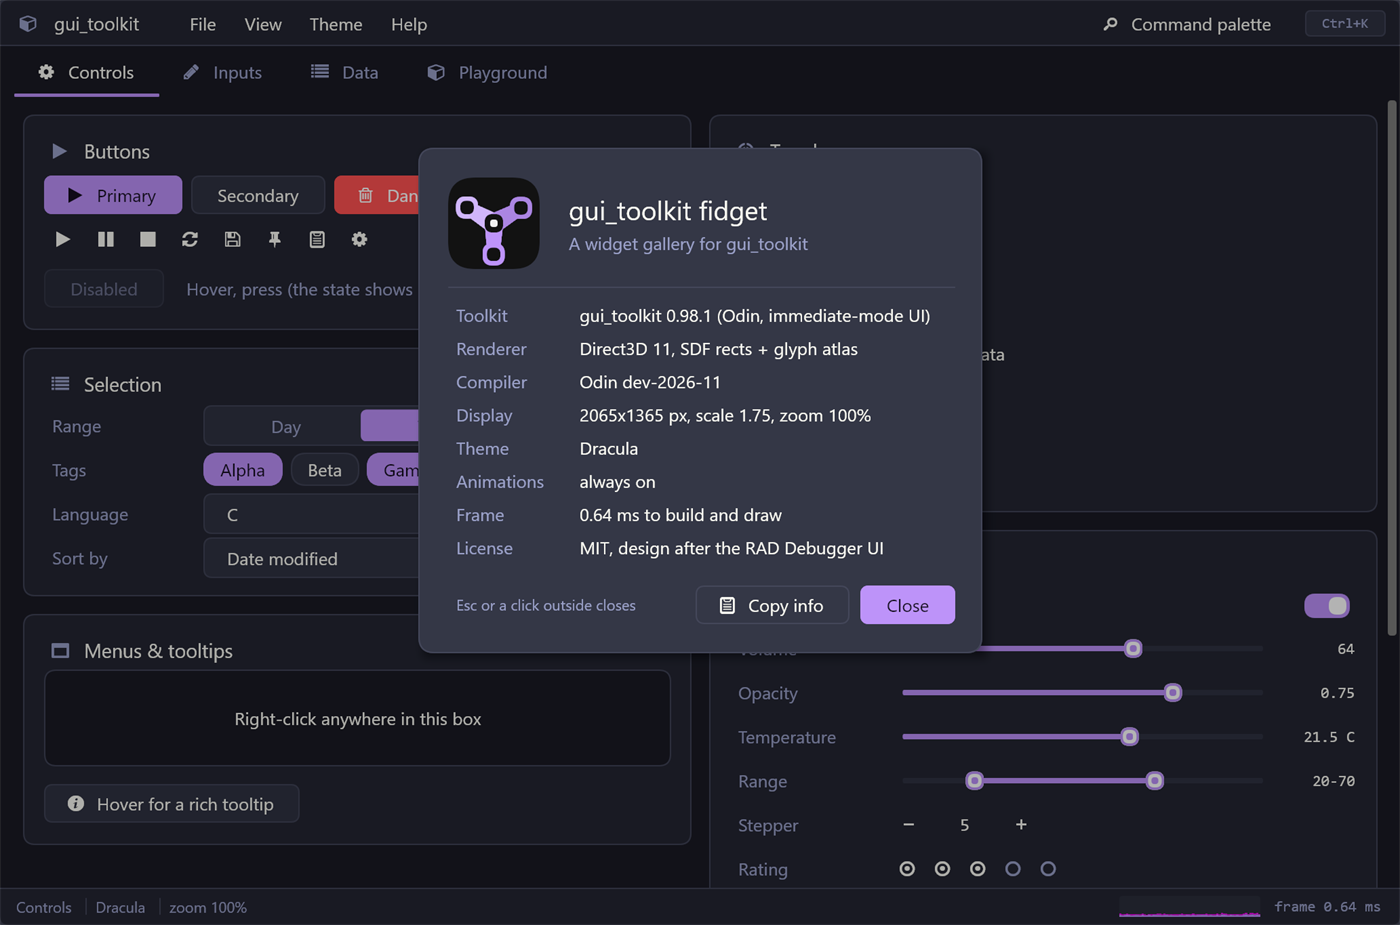
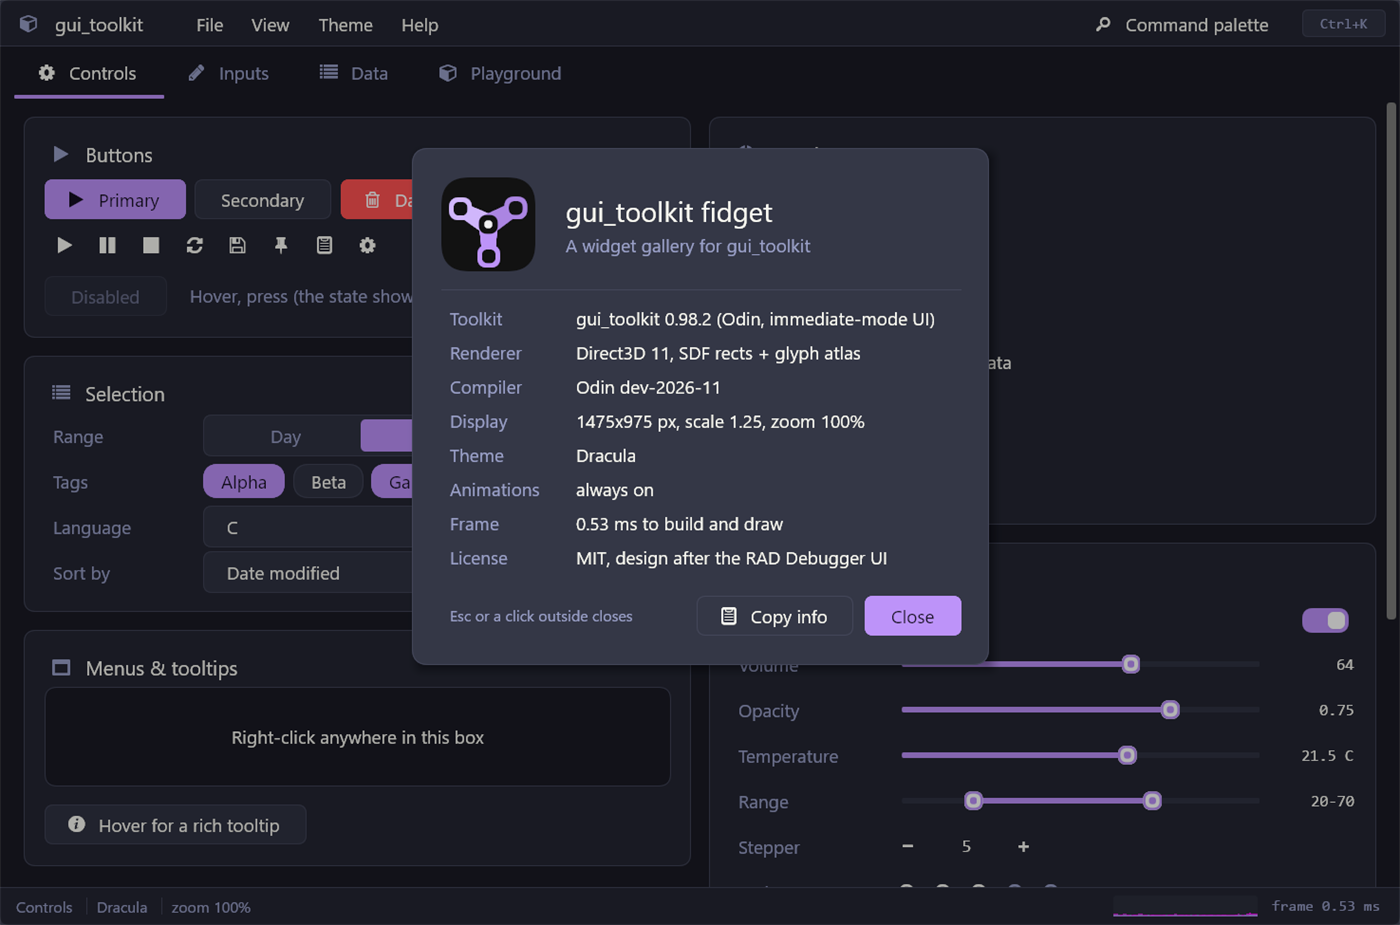
0.98.2: custom_cursor_info on Linux: the cursor as it is shown, at its scale

diff --git a/CHANGELOG.md b/CHANGELOG.md
@@ -5,6 +5,11 @@ project follows [semantic versioning](https://semver.org); while the version is 
 is also available in code as `ui.VERSION`. What is not released yet is in `changelog.d/`, not under "Unreleased": two branches never
 conflict on this file.
 
+## [0.98.2] - 2026-11-08
+
+### Fixed
+- **`platform.custom_cursor_info` on Linux** says the size and hotspot of the cursor as it is shown, the image at the scale it is shown at (`scale`, or the window's: `custom_cursor_scale`), as on Windows; it said those of the source image whatever the scale. The scaling is shared with the pixels made for X and Wayland (`custom_cursor_geometry`).
+
 ## [0.98.1] - 2026-11-07
 
 ### Fixed
@@ -1805,6 +1810,7 @@ First release.
 - `build.bat`, embedded exe icons, scripted interaction tests (`tools/fidget_test.ps1`, `tools/ui_test.ps1`),
   screenshot generator (`tools/screenshots.ps1`), icon generator (`tools/make_icon.ps1`).
 
+[0.98.2]: https://github.com/sachahjkl/gui_toolkit/releases/tag/v0.98.2
 [0.98.1]: https://github.com/sachahjkl/gui_toolkit/releases/tag/v0.98.1
 [0.98.0]: https://github.com/sachahjkl/gui_toolkit/releases/tag/v0.98.0
 [0.97.0]: https://github.com/sachahjkl/gui_toolkit/releases/tag/v0.97.0

diff --git a/README.md b/README.md
@@ -4,7 +4,7 @@
 
 <p align="center"><b>A fast, native, immediate-mode GUI toolkit.</b></p>
 
-<p align="center"><a href="CHANGELOG.md"><img src="https://img.shields.io/badge/version-0.98.1-1d57ba" alt="version 0.98.1"></a>
+<p align="center"><a href="CHANGELOG.md"><img src="https://img.shields.io/badge/version-0.98.2-1d57ba" alt="version 0.98.2"></a>
 <a href="https://sachahjkl.github.io/gui_toolkit/"><img src="https://img.shields.io/badge/site-github.io-56b6c2" alt="site"></a></p>
 
 A native GUI toolkit in [Odin](https://odin-lang.org). You describe the interface in code on every frame; it keeps the state between
